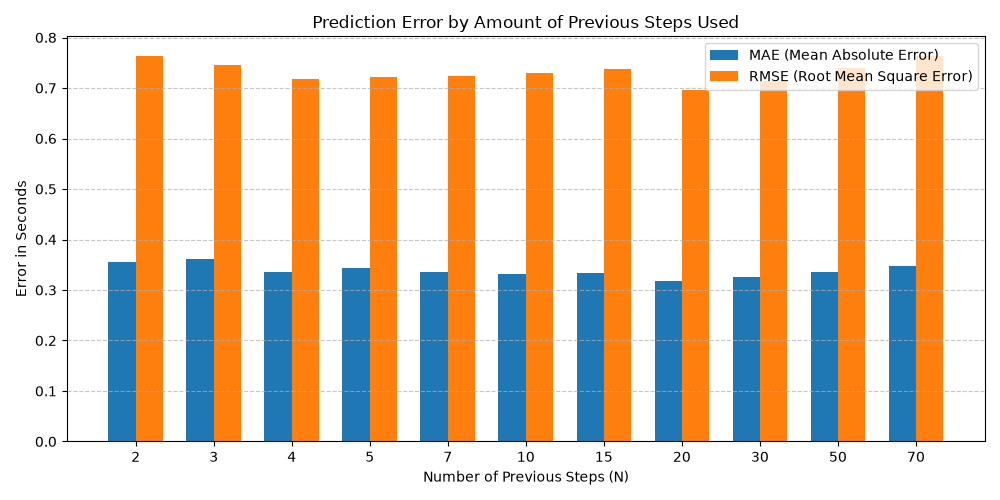
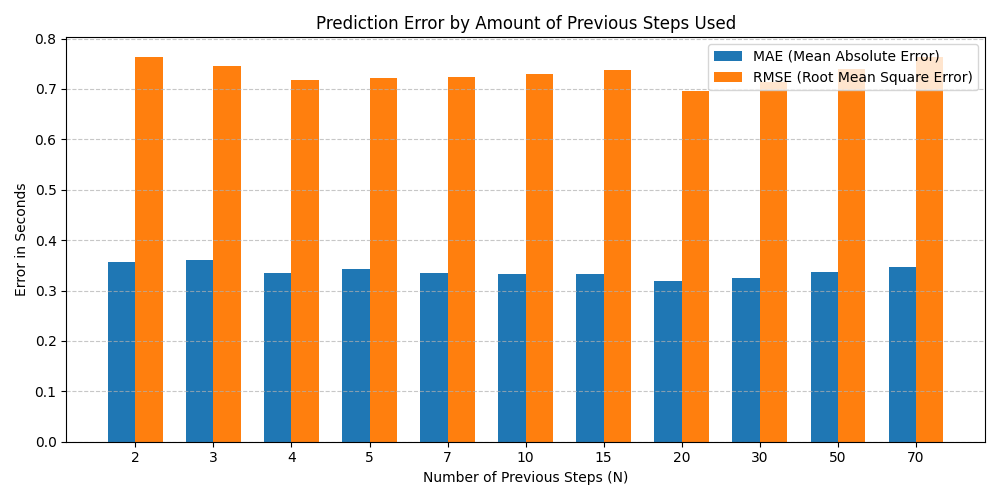
Adding different types of moving averages

diff --git a/data-2-calcs/average.py b/data-2-calcs/average.py
@@ -2,6 +2,8 @@ import pandas as pd
 import numpy as np
 import matplotlib.pyplot as plt
 
+MAX_ERROR_PLOT = 1.25
+
 # Load data
 df = pd.read_csv("combined_heel_strikes.csv")
 # Drop the first row which has NaN for time_to_prev_strike_sec
@@ -13,60 +15,172 @@ df.reset_index(drop=True, inplace=True)
 y = df['time_to_prev_strike_sec']
 
 N_values = [2, 3, 4, 5, 7, 10, 15, 20, 30, 50, 70]  # Different numbers of previous steps to consider for prediction
-results = []
-predictions = {}
 
-for n in N_values:
-    # Calculate rolling mean of the past 'n' steps
-    # We shift by 1 because the prediction for time t should only use data up to t-1
-    pred = y.rolling(window=n).mean().shift(1)
-    predictions[n] = pred
-    
-    # Calculate errors (only where predictions are not NaN)
-    valid_idx = pred.dropna().index
-    y_actual = y.loc[valid_idx]
-    y_pred = pred.loc[valid_idx]
-    
-    mae = np.mean(np.abs(y_actual - y_pred))
-    rmse = np.sqrt(np.mean((y_actual - y_pred)**2))
-    
-    results.append({'N': n, 'MAE': mae, 'RMSE': rmse})
 
-results_df = pd.DataFrame(results)
-print(results_df)
 
-# Plot 1: Errors Comparison
-plt.figure(figsize=(10, 5))
+# Helper functions for the moving average types
+# =====================================================================
+
+# Simple Moving Average
+def sma(series, n):
+    return series.rolling(window=n).mean()
+
+
+# Weighted Moving Average
+def wma(series, n):
+    weights = np.arange(1, n + 1)
+    return series.rolling(window=n).apply(lambda x: np.dot(x, weights) / weights.sum(), raw=True)
+
+
+# Hull Moving Average
+def hma(series, n):
+    half_n = max(1, int(n / 2))
+    sqrt_n = max(1, int(np.sqrt(n)))
+    wma_half = wma(series, half_n)
+    wma_full = wma(series, n)
+    diff = 2 * wma_half - wma_full
+    return wma(diff, sqrt_n)
+
+
+# Arnaud Legoux Moving Average
+def alma(series, n, offset=0.85, sigma=6):
+    m = offset * (n - 1)
+    s = n / sigma
+    weights = np.array([np.exp(-((i - m) ** 2) / (2 * s * s)) for i in range(n)])
+    weights /= weights.sum()
+    return series.rolling(window=n).apply(lambda x: np.dot(x, weights), raw=True)
+
+
+def ema(series, n):
+    return series.ewm(span=n, adjust=False).mean()
+
+
+
+# Evaluation
+# Reused for SMA, EMA, WMA, HMA, ALMA
+def evaluate(method_name, pred_func):
+    method_results = []
+    method_predictions = {}
+
+    for n in N_values:
+        # Compute the moving average, then shift by 1
+        # so that the prediction for time t only uses data up to t-1
+        pred = pred_func(y, n).shift(1)
+        method_predictions[n] = pred
+
+        # Calculate errors (only where predictions are not NaN)
+        valid_idx = pred.dropna().index
+        y_actual = y.loc[valid_idx]
+        y_pred = pred.loc[valid_idx]
+
+        mae = np.mean(np.abs(y_actual - y_pred))
+        rmse = np.sqrt(np.mean((y_actual - y_pred) ** 2))
+
+        method_results.append({'N': n, 'MAE': mae, 'RMSE': rmse})
+
+    method_results_df = pd.DataFrame(method_results)
+    print(f"\n{method_name} results:")
+    print(method_results_df)
+
+    return method_results_df, method_predictions
+
+
+# Run the evaluation for every method
+methods = {
+    'SMA': sma,
+    'EMA': ema,
+    'WMA': wma,
+    'HMA': hma,
+    'ALMA': alma,
+}
+
+all_results = {}
+all_predictions = {}
+
+for method_name, pred_func in methods.items():
+    results_df, predictions = evaluate(method_name, pred_func)
+    all_results[method_name] = results_df
+    all_predictions[method_name] = predictions
+
+
+sma_results_df, sma_predictions = all_results['SMA'], all_predictions['SMA']
+ema_results_df, ema_predictions = all_results['EMA'], all_predictions['EMA']
+wma_results_df, wma_predictions = all_results['WMA'], all_predictions['WMA']
+hma_results_df, hma_predictions = all_results['HMA'], all_predictions['HMA']
+alma_results_df, alma_predictions = all_results['ALMA'], all_predictions['ALMA']
+
+
+# Plot 1: Errors Comparison for ALL methods
+fig, axes = plt.subplots(2, 3, figsize=(18, 10))
+axes = axes.flatten()
+
 x_pos = np.arange(len(N_values))
 width = 0.35
 
-plt.bar(x_pos - width/2, results_df['MAE'], width, label='MAE (Mean Absolute Error)')
-plt.bar(x_pos + width/2, results_df['RMSE'], width, label='RMSE (Root Mean Square Error)')
+for ax, (method_name, results_df) in zip(axes, all_results.items()):
+    ax.bar(x_pos - width / 2, results_df['MAE'], width, label='MAE (Mean Absolute Error)')
+    ax.bar(x_pos + width / 2, results_df['RMSE'], width, label='RMSE (Root Mean Square Error)')
 
-plt.xlabel('Number of Previous Steps (N)')
-plt.ylabel('Error in Seconds')
-plt.title('Prediction Error by Amount of Previous Steps Used')
-plt.xticks(x_pos, N_values)
-plt.legend()
-plt.grid(axis='y', linestyle='--', alpha=0.7)
+    ax.set_xlabel('Number of Previous Steps (N)')
+    ax.set_ylabel('Error in Seconds')
+    ax.set_title(f'Prediction Error by Amount of Previous Steps Used ({method_name})')
+    ax.set_xticks(x_pos)
+    ax.set_xticklabels(N_values)
+    ax.set_ylim(0, MAX_ERROR_PLOT)
+    ax.legend()
+    ax.grid(axis='y', linestyle='--', alpha=0.7)
+
+# Hide any unused subplot slots
+for ax in axes[len(all_results):]:
+    ax.axis('off')
+
 plt.tight_layout()
-plt.savefig('error_comparison.png')
+plt.savefig('error_comparison_all_methods.png')
 plt.show()
 
-# Plot 2: Actual vs Predictions (subset for clarity)
-plt.figure(figsize=(14, 6))
-subset_end = 100 # Adjust if necessary to see detail
-plt.plot(y.index[:subset_end], y.iloc[:subset_end], label='Actual', color='black', linewidth=2, marker='o', markersize=4)
 
+# Plot 2: Actual vs Predictions for ALL methods
+fig, axes = plt.subplots(2, 3, figsize=(20, 10))
+axes = axes.flatten()
+
+subset_end = 100  # Adjust if necessary to see detail
 colors = ['red', 'blue', 'green', 'orange', 'purple', 'brown', 'pink', 'gray', 'cyan', 'magenta']
-for i, n in enumerate(N_values):
-    plt.plot(y.index[:subset_end], predictions[n].iloc[:subset_end], label=f'Predicted (N={n})', color=colors[i], linestyle='--', alpha=0.7)
 
-plt.xlabel('Step Index')
-plt.ylabel('Time to Previous Strike (Seconds)')
-plt.title('Actual vs Predicted Values (First 100 Steps)')
-plt.legend()
-plt.grid(True, linestyle=':', alpha=0.6)
+for ax, (method_name, predictions) in zip(axes, all_predictions.items()):
+    ax.plot(y.index[:subset_end], y.iloc[:subset_end], label='Actual', color='black', linewidth=2, marker='o',
+            markersize=4)
+
+    for i, n in enumerate(N_values):
+        ax.plot(y.index[:subset_end], predictions[n].iloc[:subset_end], label=f'Predicted (N={n})',
+                color=colors[i % len(colors)], linestyle='--', alpha=0.7)
+
+    ax.set_xlabel('Step Index')
+    ax.set_ylabel('Time to Previous Strike (Seconds)')
+    ax.set_title(f'Actual vs Predicted Values (First 100 Steps, {method_name})')
+    ax.legend(fontsize=7)
+    ax.grid(True, linestyle=':', alpha=0.6)
+
+# Hide any unused subplot slots
+for ax in axes[len(all_predictions):]:
+    ax.axis('off')
+
 plt.tight_layout()
-plt.savefig('predictions_timeseries.png')
+plt.savefig('predictions_timeseries_all_methods.png')
 plt.show()
+
+
+
+# Combined summary of all methods (best MAE/RMSE per method)
+summary_rows = []
+for method_name, r_df in all_results.items():
+    best_row = r_df.loc[r_df['MAE'].idxmin()]
+    summary_rows.append({
+        'Method': method_name,
+        'Best N (by MAE)': int(best_row['N']),
+        'MAE': best_row['MAE'],
+        'RMSE': best_row['RMSE'],
+    })
+
+summary_df = pd.DataFrame(summary_rows)
+print("\nSummary (best N per method by MAE):")
+print(summary_df)
